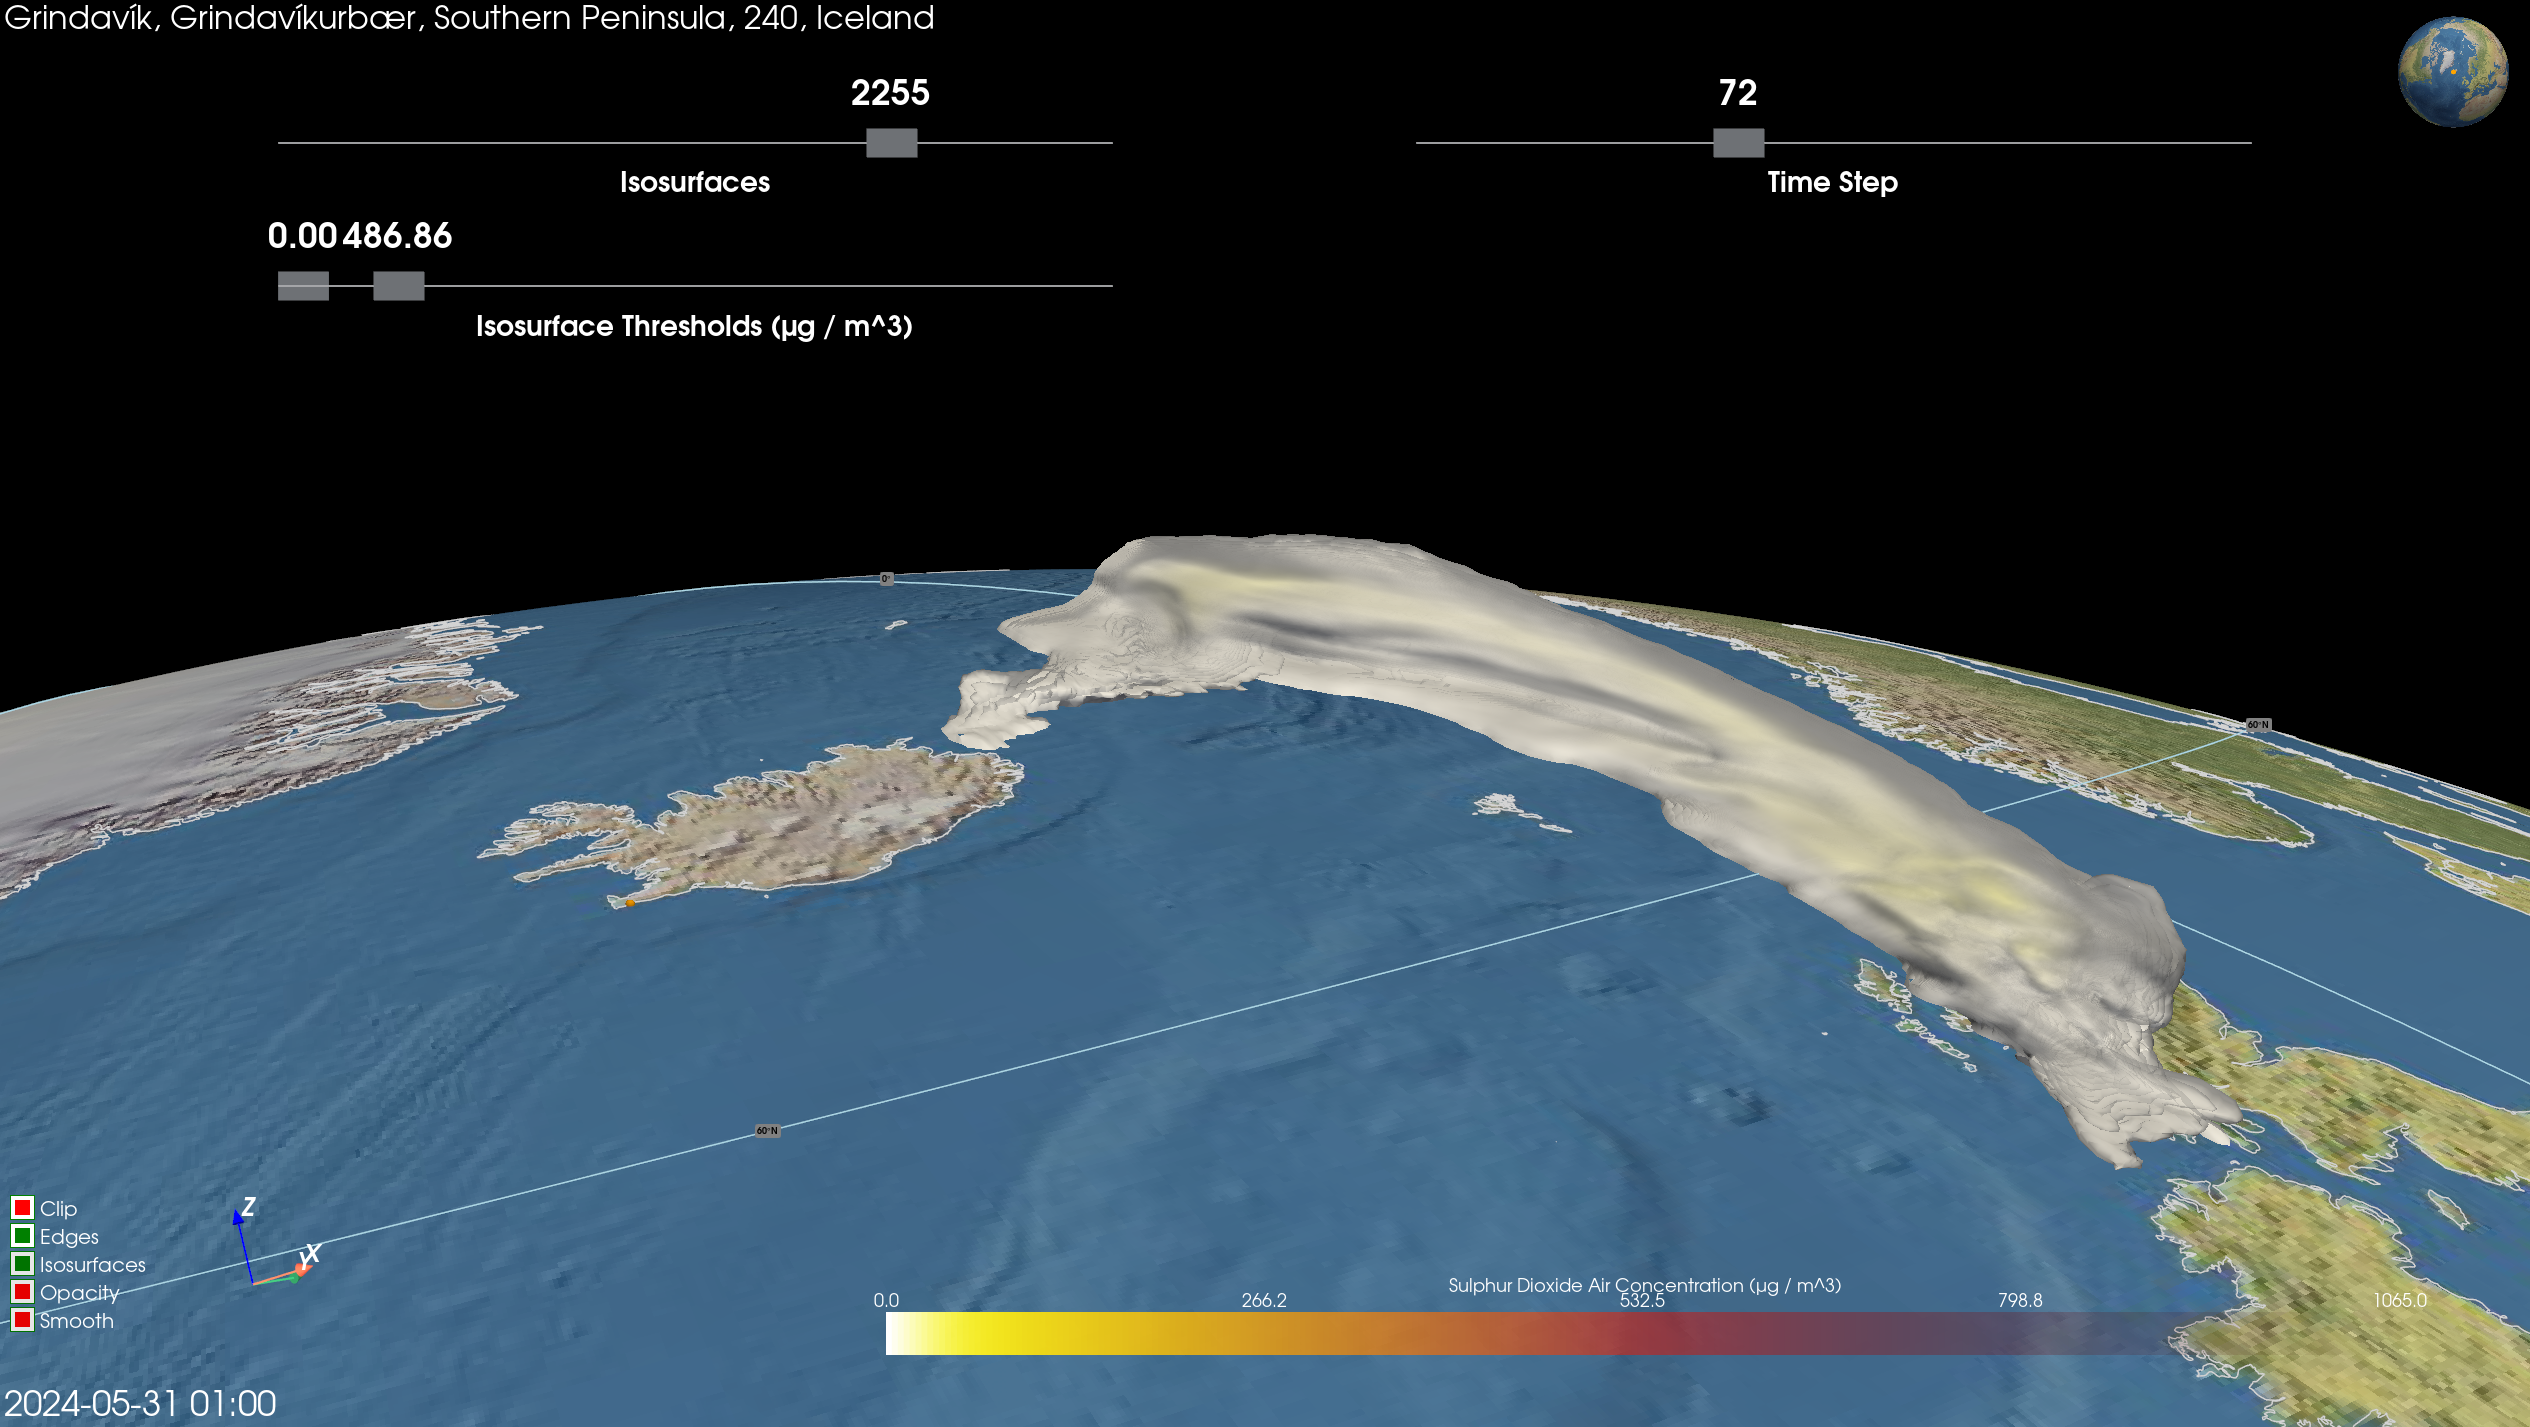
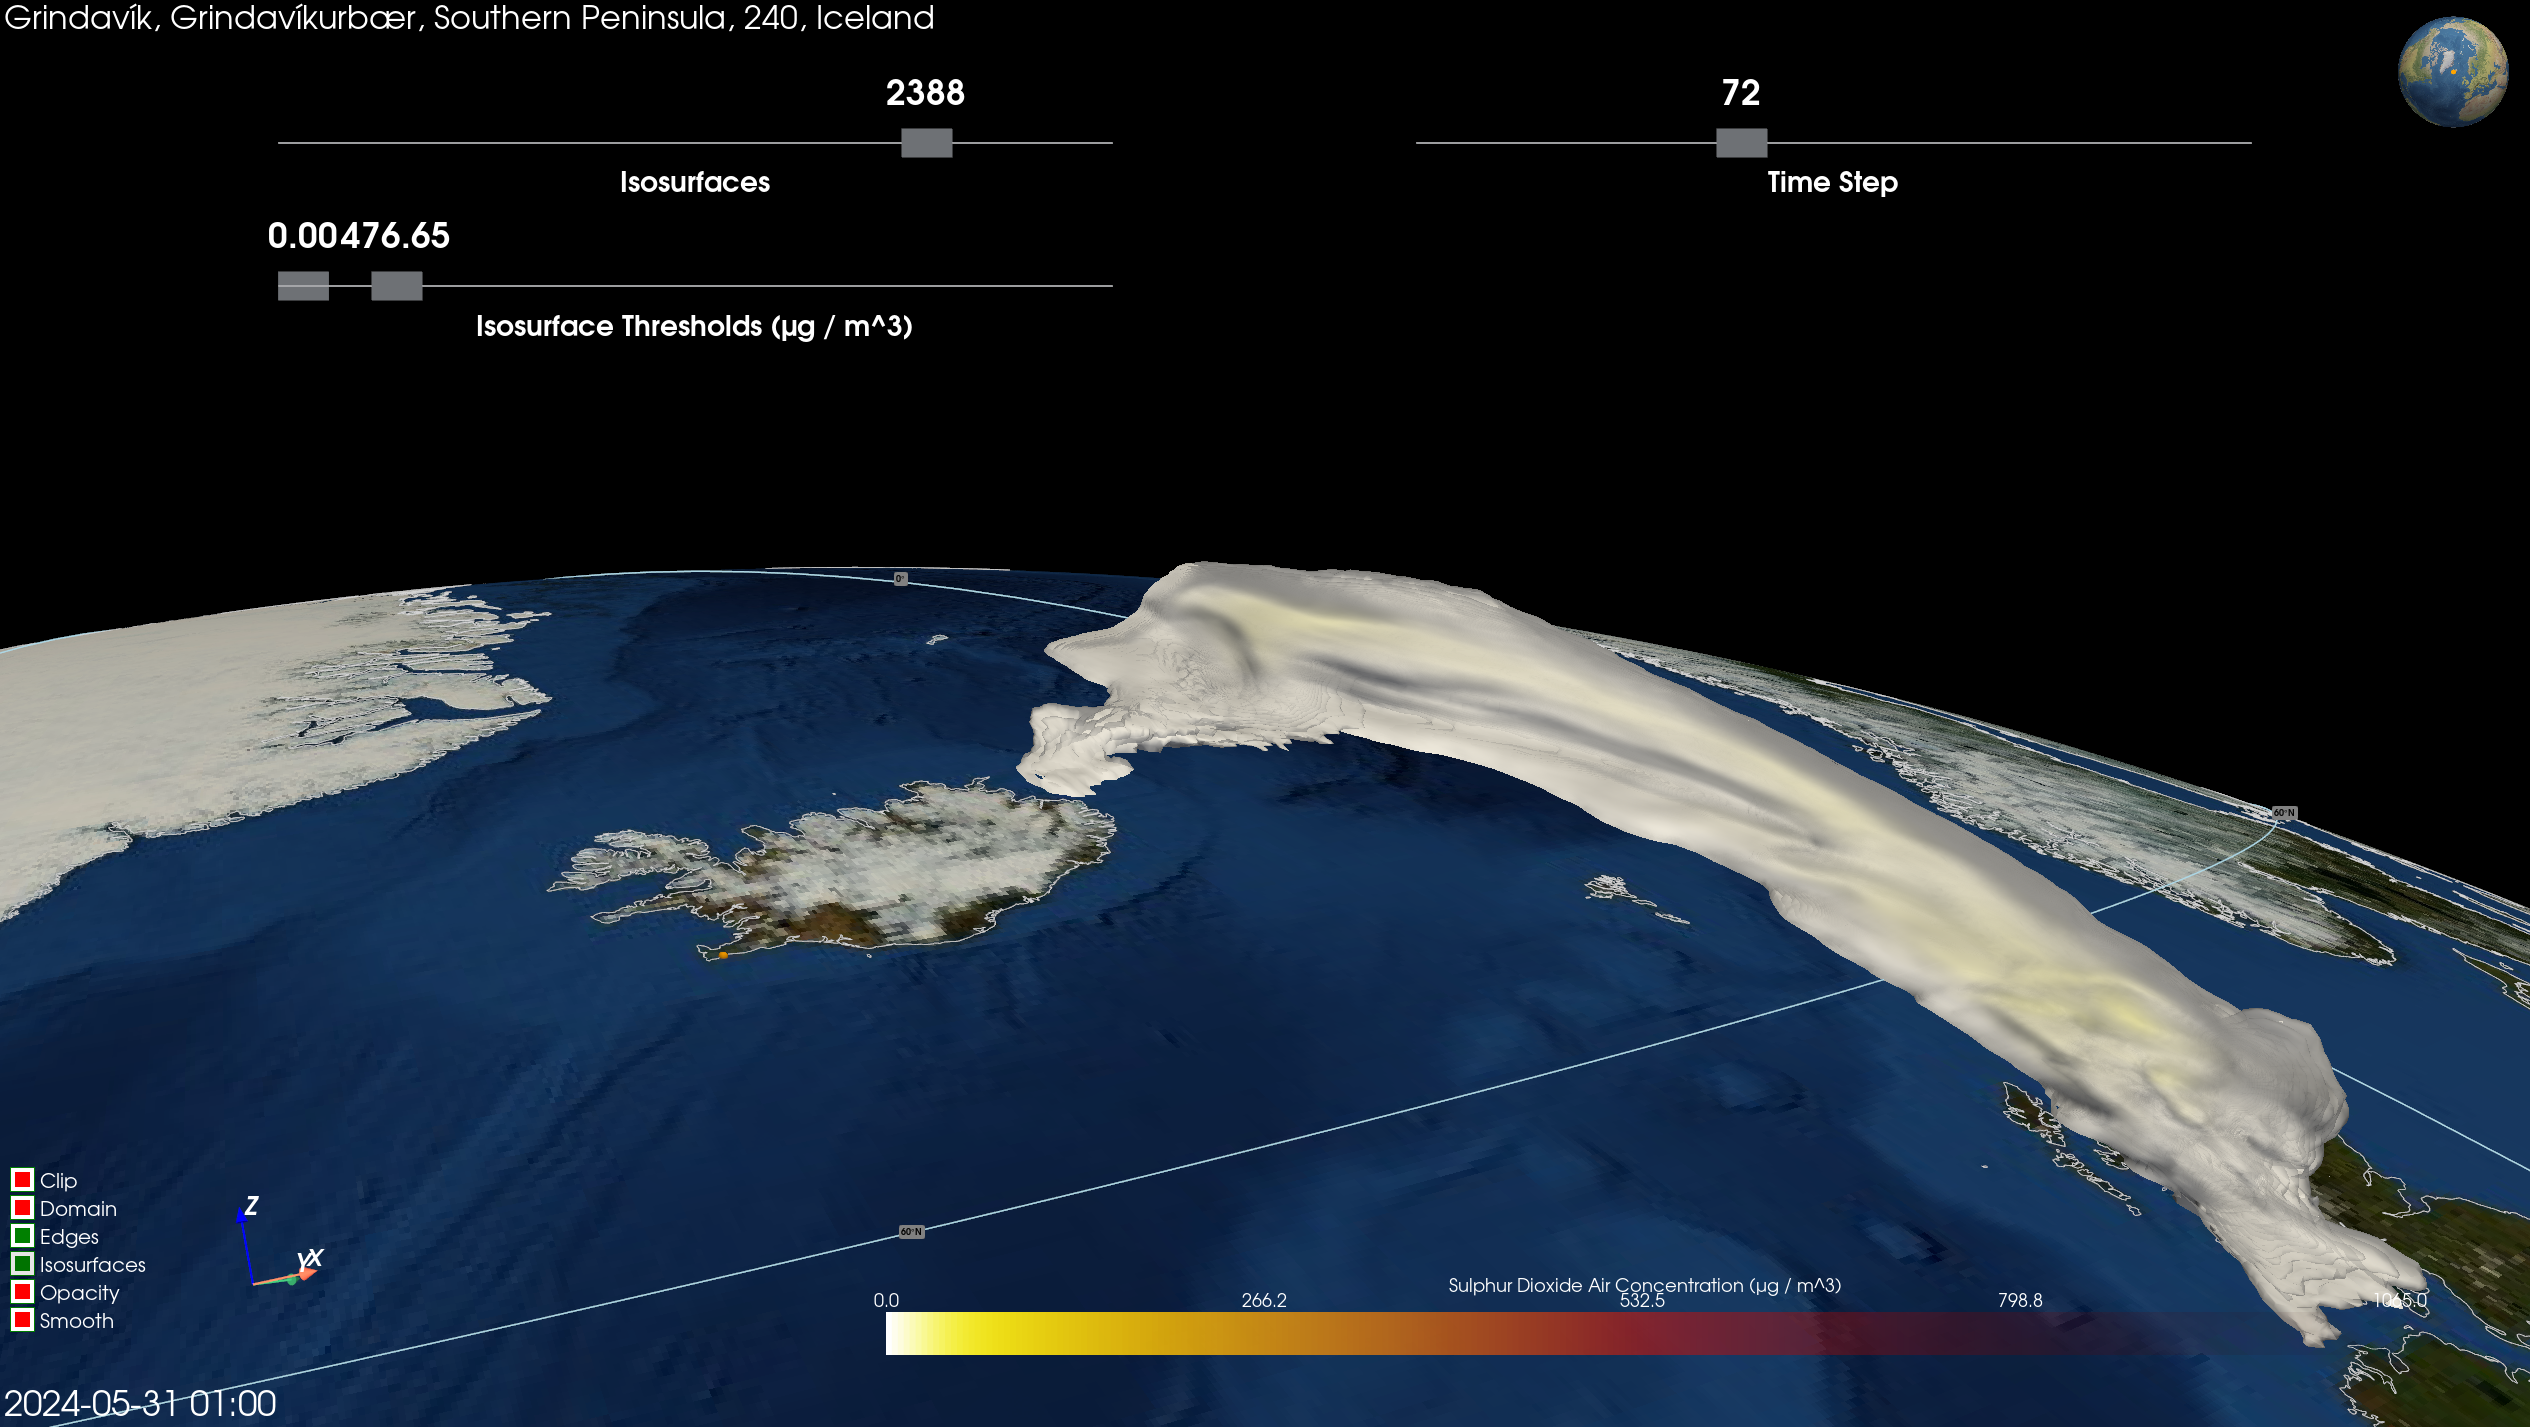
reykjanes: blue marble base layer (#30)

diff --git a/src/geojav/reykjanes/reykjanes.py b/src/geojav/reykjanes/reykjanes.py
@@ -446,7 +446,7 @@ release_location = " ".join(cube.attributes["release_location"].split()[::-1])
 location = geolocator.geocode(release_location, language="en")
 
 p.add_points(xs=location.longitude, ys=location.latitude, render_points_as_spheres=True, color="orange", point_size=10)
-actor_base = p.add_base_layer(texture=geovista.natural_earth_1(), zlevel=0, resolution="c192")
+actor_base = p.add_base_layer(texture=geovista.blue_marble(), zlevel=0, resolution="c192")
 p.add_coastlines(color="lightgray", zlevel=0)
 p.add_axes(color=color)
 
